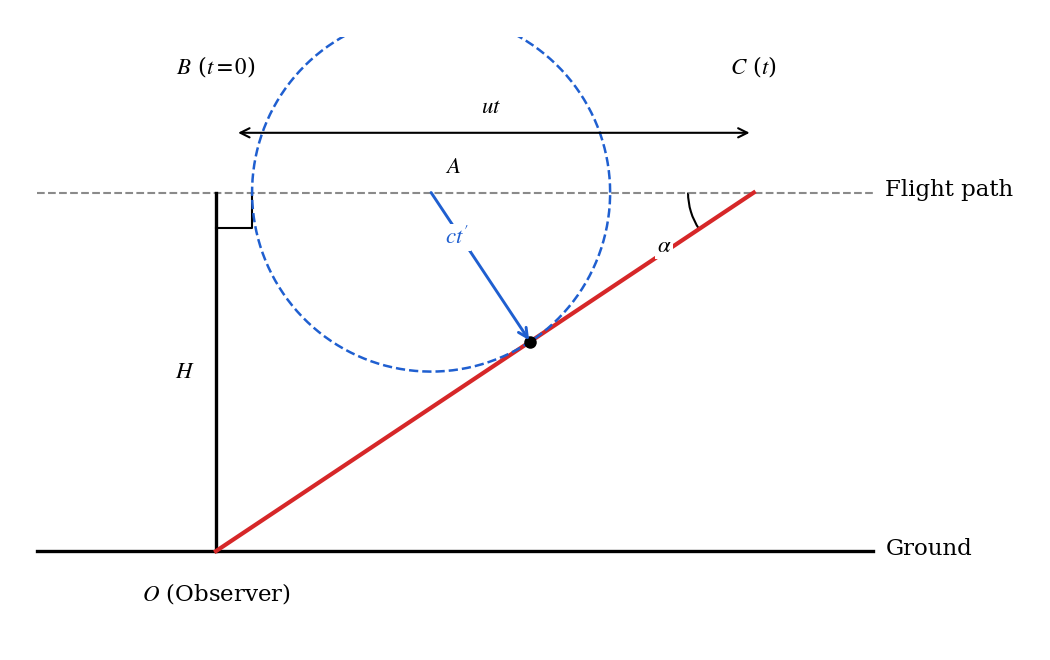
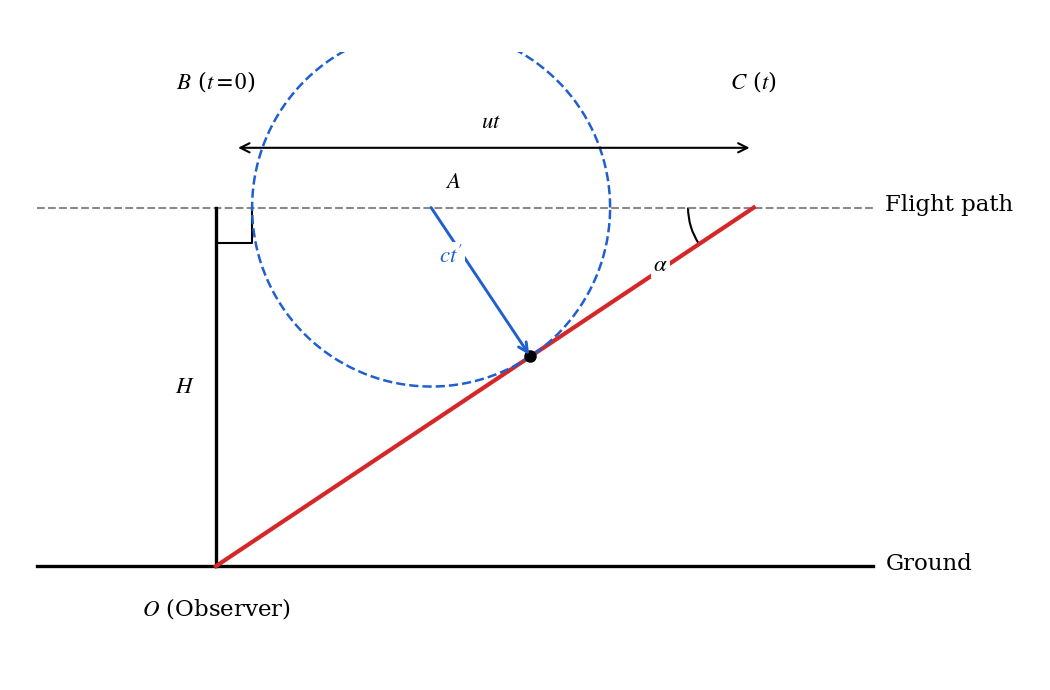
fix(figures): join secant guides, reposition v_B, exact Mach tangency

diff --git a/scripts/figs/gen_phy1.py b/scripts/figs/gen_phy1.py
@@ -9,6 +9,7 @@ Also writes scurve_mpl (solved S-curve tangency) and triangle_mpl
 import matplotlib
 matplotlib.use('Agg')
 import matplotlib.pyplot as plt
+from matplotlib.patches import Arc as MArc
 import numpy as np
 import os
 
@@ -58,10 +59,10 @@ ax.text(t1 - 0.12, x1 - 0.12, '$(t_1, x_1)$', ha='right', va='top',
         bbox=dict(fc='white', ec='none', pad=1))
 ax.text(t2 + 0.08, x2 + 0.05, '$(t_2, x_2)$', ha='left', va='bottom',
         bbox=dict(fc='white', ec='none', pad=1))
-ax.plot([t1, t2], [x1 - 0.45, x1 - 0.45], ls='--', color=GRAY, lw=1)
-ax.plot([t1, t1], [x1, x1 - 0.45], ls='--', color=GRAY, lw=1)
-ax.plot([t2, t2], [x1, x2], ls='--', color=GRAY, lw=1)
-ax.plot([t2, t2 + 0.001], [x1, x1], ls='--', color=GRAY, lw=1)
+y0 = x1 - 0.45
+ax.plot([t1, t2], [y0, y0], ls='--', color=GRAY, lw=1)
+ax.plot([t1, t1], [x1, y0], ls='--', color=GRAY, lw=1)
+ax.plot([t2, t2], [y0, x2], ls='--', color=GRAY, lw=1)
 ax.text((t1+t2)/2, x1 - 0.6, r'$\Delta t$', ha='center', va='top', color=GRAY)
 ax.text(t2 + 0.15, (x1+x2)/2, r'$\Delta x$', ha='left', va='center', color=GRAY,
         bbox=dict(fc='white', ec='none', pad=1))
@@ -90,17 +91,22 @@ ax.text(-0.12, B[1], '$B(0, Y_B)$', color='#b91c1c', ha='right', va='center')
 ax.annotate('', xy=(A[0] + 0.9, 0), xytext=tuple(A),
             arrowprops=dict(arrowstyle='-|>', color='#b91c1c', lw=2, shrinkA=3, shrinkB=0))
 ax.text(A[0] + 0.45, 0.15, '$v$', color='#b91c1c', ha='center', va='bottom')
-ax.annotate('', xy=(0.3, 1.95), xytext=(0.3, 2.55),
+ax.annotate('', xy=(0.18, 1.15), xytext=(0.18, 1.95),
             arrowprops=dict(arrowstyle='-|>', color='#b91c1c', lw=2, shrinkA=0, shrinkB=0))
-ax.text(0.42, 2.25, '$v_B$', color='#b91c1c', ha='left', va='center')
+ax.text(0.3, 1.55, '$v_B$', color='#b91c1c', ha='left', va='center')
 ax.set_xlim(-0.6, 4.8); ax.set_ylim(-0.7, 4.2); ax.set_aspect('equal'); ax.axis('off')
 fig.tight_layout(); fig.savefig(f'{OUT}/rod_mpl.png', dpi=150); plt.close(fig)
 
-# ---- 4. Mach cone (H=3, O=(1,0), B=(1,3), C=(5.5,3), A=(2.8,3)) ----
-# exact tangent from A to cone line CO: touch T=(3.63,1.75), r=|AT|=1.498
-fig, ax = plt.subplots(figsize=(7.0, 4.4))
+# ---- 4. Mach cone: right triangle OBC (OB=H vertical, BC=ut horizontal),
+# cone generator CO, exact tangent circle from A to CO ----
+fig, ax = plt.subplots(figsize=(7.0, 4.6))
 O = np.array([1.0, 0.0]); Bpt = np.array([1.0, 3.0]); C = np.array([5.5, 3.0]); A = np.array([2.8, 3.0])
-T = np.array([3.63, 1.75])
+d = O - C
+d = d / np.linalg.norm(d)            # unit vector along cone generator CO
+n = np.array([-d[1], d[0]])          # unit normal to CO
+r = abs(float((A - C) @ n))          # distance from A to line CO
+foot = A - float((A - C) @ n) * n    # projection of A onto line CO
+T = foot                             # exact tangency point, T=(3.631,1.754)
 ax.plot([-0.5, 6.5], [0, 0], color='k', lw=1.6)
 ax.text(6.6, 0.02, 'Ground', va='center')
 ax.plot([-0.5, 6.5], [3, 3], ls='--', color=GRAY, lw=1)
@@ -113,22 +119,21 @@ ax.annotate('', xy=(5.5, 3.5), xytext=(1.15, 3.5),
 ax.text(3.3, 3.62, '$ut$', ha='center', va='bottom', bbox=dict(fc='white', ec='none', pad=1))
 ax.plot([C[0], O[0]], [C[1], O[1]], color=RED, lw=2)
 th = np.linspace(0, 2*np.pi, 300)
-ax.plot(A[0] + 1.498*np.cos(th), A[1] + 1.498*np.sin(th), ls='--', color=BLUE, lw=1.2)
+ax.plot(A[0] + r*np.cos(th), A[1] + r*np.sin(th), ls='--', color=BLUE, lw=1.2)
 ax.annotate('', xy=tuple(T), xytext=tuple(A),
             arrowprops=dict(arrowstyle='->', color=BLUE, lw=1.4, shrinkA=0, shrinkB=1))
-ax.text((A[0]+T[0])/2 - 0.1, (A[1]+T[1])/2 + 0.15, "$ct'$", color=BLUE, ha='right', va='bottom',
+ax.text((A[0]+T[0])/2 - 0.15, (A[1]+T[1])/2 + 0.12, "$ct'$", color=BLUE, ha='right', va='bottom',
         bbox=dict(fc='white', ec='none', pad=1))
 ax.plot(*T, 'ko', ms=5)
-from matplotlib.patches import Arc as MArc
 ax.add_patch(MArc(tuple(C), 1.1, 1.1, angle=0, theta1=180, theta2=214, color='k', lw=1))
-ax.text(4.75, 2.55, r'$\alpha$', ha='center', va='center', bbox=dict(fc='white', ec='none', pad=1))
+ax.text(4.72, 2.52, r'$\alpha$', ha='center', va='center', bbox=dict(fc='white', ec='none', pad=1))
 ax.text(1.0, 3.95, '$B$ ($t=0$)', ha='center', va='bottom', bbox=dict(fc='white', ec='none', pad=1))
 ax.text(5.5, 3.95, '$C$ ($t$)', ha='center', va='bottom', bbox=dict(fc='white', ec='none', pad=1))
 ax.text(O[0], -0.25, '$O$ (Observer)', ha='center', va='top')
 ax.text(A[0] + 0.12, A[1] + 0.12, '$A$', ha='left', va='bottom', bbox=dict(fc='white', ec='none', pad=1))
 ax.set_xlim(-0.6, 7.3); ax.set_ylim(-0.6, 4.3); ax.set_aspect('equal'); ax.axis('off')
 fig.tight_layout(); fig.savefig(f'{OUT}/mach_mpl.png', dpi=150); plt.close(fig)
-
+print(f'mach: foot={foot.round(3)} r={r:.3f}')
 # ---- 5. osculating circle: compact arc 52..128 deg, r=2, C=(2,-0.2), A=(2,1.8) ----
 fig, ax = plt.subplots(figsize=(6.2, 4.0))
 Cc = np.array([2.0, -0.2]); Ap = np.array([2.0, 1.8])
